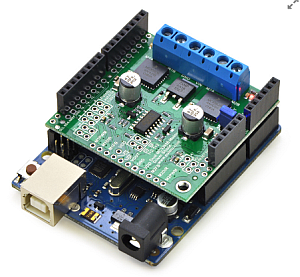
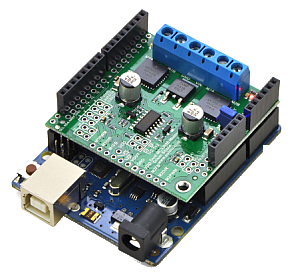
cleanup of images for dark mode

Changed region(s): [[0.18, 0.491, 0.93, 0.9819], [0.96, 0.0, 1.0, 0.0289]]

diff --git a/docs/reference/hardware/motorboards/arduino-motor-shield.rst b/docs/reference/hardware/motorboards/arduino-motor-shield.rst
@@ -15,9 +15,11 @@ Arduino Motor Shield R3
 
 Easy to use, widely available, and in the latest R3 version it is compatible with our next generation of Command Station hardware. It is rated at 2A of load per channel, but without a heatsink and fan, it can only realistically handle about 1.3A per channel. This board is the standard by which we compare other boards that are about the same, worse, or better.
 
-.. image:: /_static/images/motorboards/arduino_motorshield2.jpg
+.. figure:: /_static/images/motorboards/arduino_motorshield.png
    :alt: Arduino Motor Shield R3
-   :scale: 100%
+   :scale: 80%
+
+   Arduino Motor Shield R3
 
 Schematics are available on the `Arduino website <https://docs.arduino.cc/static/8a72fae47a56558ca26308105253350e/schematics.pdf>`_.
 

diff --git a/docs/reference/hardware/motorboards/L298N-motor-board-setup.rst b/docs/reference/hardware/motorboards/L298N-motor-board-setup.rst
@@ -27,7 +27,7 @@ The L298N Motor board is the same H-Bridge on the Arduino Motor Shield. Here are
 * It doesn't have current sense, so you are going to have to use one of the solutions below
 * It stands vertically on the board with a big heat sink for better cooling
 
-.. figure:: /_static/images/motorboards/l298_board2.jpg
+.. figure:: /_static/images/motorboards/l298_board.png
   :alt: L298N Motor Board
   :scale: 25%
 
@@ -200,6 +200,8 @@ Make the following Inverter circuit (You need 2 if you want MAIN and PROG):
 .. figure:: /_static/images/motorboards/inverter1.jpg
   :alt: Transistor inverter circuit
   :scale: 60%
+
+  Transistor inverter circuit
 
 Then wire the L298N to the Arduino with jumper wires according to the following table:
 

diff --git a/docs/reference/hardware/motorboards/diy-more-l298nh-motor-shield.rst b/docs/reference/hardware/motorboards/diy-more-l298nh-motor-shield.rst
@@ -15,9 +15,9 @@ DIY More L298NH Motor Shield
 
 Another similar board to the Arduino motor shield. Supports 2A per channel. This board uses the L298HN, which is the same L298 internally as the Arduino Motor Shield but in a different form factor with a larger heat sink tab. Current sense and other features are identical to the Arduino version.
 
-.. image:: /_static/images/motorboards/diy_more_motor.jpg
+.. image:: /_static/images/motorboards/diy_more_motor.png
    :alt: DIY More Motor Shield
-   :scale: 100%
+   :scale: 40%
 
 `DIY More Website <https://www.diymore.cc/products/replace-l298p-for-arduino-uno-r3-dual-channel-dc-motor-driver-shield-expansion-board-l298nh-module-driving-module-mega2560-one>`_
    

diff --git a/docs/reference/hardware/motorboards/miniibt-motor-driver-l6201p.rst b/docs/reference/hardware/motorboards/miniibt-motor-driver-l6201p.rst
@@ -15,11 +15,11 @@ MiniIBT Motor Driver L6201P (single)
 
 Found on eBay, Amazon and the Chinese sites, this board uses the L6201P H-Bridge chip and is rated for 5 Amps. With a fan and heat sink, it can handle 3 or 4 Amps at 12-14V. Search for MiniIBT or Wingxine to find it. Be careful to match the picture since there is another board that sometimes comes up in searches.
 
-.. image:: /_static/images/motorboards/wingxine.jpg
+.. figure:: /_static/images/motorboards/wingxine.png
    :alt: L6201P Wingxine Motor Driver
    :scale: 30%
 
-|
+   L6201P Wingxine Motor Driver
 
 https://www.aliexpress.com/i/32790131503.html
 https://www.aliexpress.com/item/32722458131.html

diff --git a/docs/reference/hardware/motorboards/IRF3205-motor-board-setup.rst b/docs/reference/hardware/motorboards/IRF3205-motor-board-setup.rst
@@ -24,7 +24,7 @@ Dual Motor Driver Module H-bridge MOSFET IRF3205
 
 |tinkerer|
 
-.. figure:: /_static/images/motorboards/3205_motor_board.jpg
+.. figure:: /_static/images/motorboards/3205_motor_board.png
    :alt: IRF3205 Motor Board
    :scale: 75%
 
@@ -52,7 +52,7 @@ What You Will Need (IRF3205)
 
 See the :ref:`reference/hardware/motorboards/IRF3205-motor-board-setup:Parts list (IRF3205)`
 
-.. figure:: /_static/images/motorboards/15A_Dual_HBridge3.jpg
+.. figure:: /_static/images/motorboards/15A_Dual_HBridge.png
    :alt: 15A Dual H-Bridge
    :scale: 35%
 

diff --git a/docs/reference/hardware/motorboards/yfrobot-l298p.rst b/docs/reference/hardware/motorboards/yfrobot-l298p.rst
@@ -19,9 +19,11 @@ The YFROBOT Motor Shield will Only run DCC waveform and will Not be able to run 
  
 **Do NOT confuse this with the DFRobot Motor Shield, which is not plug and play!**
 
-.. image:: /_static/images/motorboards/yfrobot1.png
+.. figure:: /_static/images/motorboards/yfrobot1.png
    :alt: YFRobot L298P Motor Driver Shield
    :scale: 30%
+
+   YFRobot L298P Motor Driver Shield
 
 :doc:`Install the YFRobot Motor Shield (similar to Deek-Robot) </ex-commandstation/get-started/assembly>`
 

diff --git a/docs/reference/hardware/motorboards/flashtree-motor-shield.rst b/docs/reference/hardware/motorboards/flashtree-motor-shield.rst
@@ -17,8 +17,10 @@ Electrically identical in most every regard to the Arduino motor shield. Often c
 
 https://flashtree.com/products/flashtree-motor-shield-r3-5v-to-12v-for-a000079
 
-.. image:: /_static/images/motorboards/flashtree1.jpg
+.. figure:: /_static/images/motorboards/flashtree.png
    :alt: Flashtree Motor Shield
-   :scale: 20%
+   :scale: 30%
+
+   Flashtree Motor Shield
 
 :doc:`Install the Flashtree (same as Deek-Robot) Motor Shield </ex-commandstation/get-started/assembly>`

diff --git a/docs/reference/hardware/motorboards/deek-robot-motor-shield.rst b/docs/reference/hardware/motorboards/deek-robot-motor-shield.rst
@@ -17,7 +17,7 @@ Electrically identical in most every regard to the Arduino motor shield. Often c
 
 .. figure:: /_static/images/motorboards/deek-robot_motor_shield.png
    :alt: Deek-Robot Motor Shield
-   :scale: 100%
+   :scale: 50%
 
    Deek-Robot Motor Shield
 
